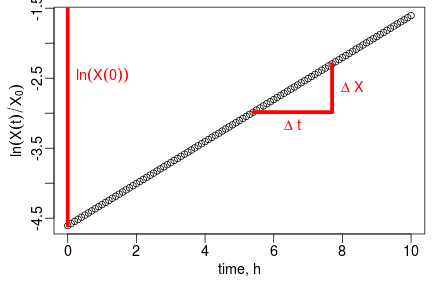
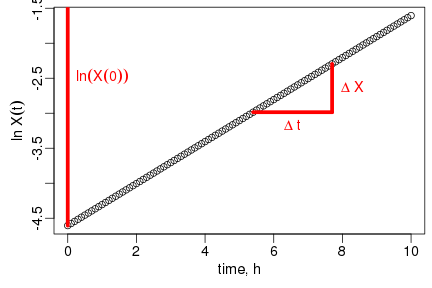
publishing deck

diff --git a/index.html b/index.html
@@ -410,7 +410,7 @@ X(t) =& X(0)   e^{\mu  t}\\
 </div>
 <div style='float:right;width:60%;'>
   <pre><code class="r">par(mai=c(.75,.75,.1,.1),mgp=c(1.5,.5,0),cex=1.2)
-plot(time, log(xt), xlab=&quot;time, h&quot;,ylab=expression(ln(X(t)/X[0])))
+plot(time, log(xt), xlab=&quot;time, h&quot;,ylab=expression(ln~X(t)))
 x1 &lt;- .05; idx1 &lt;- which(abs(xt-x1)==min(abs(xt-x1)))
 x2 &lt;- .1; idx2 &lt;- which(abs(xt-x2)==min(abs(xt-x2)))
 lines(x=time[c(idx1,idx2)], y=log(xt[c(idx1,idx1)]),col=2,lwd=5)
@@ -705,7 +705,7 @@ lines(TIME, x0.1 * exp(TIME*mu.1),col=&quot;red&quot;,lwd=2)
 
 <slide class="" id="slide-25" style="background:;">
   <hgroup>
-    <h3>Prepare Data, get Replicate Groups</h3>
+    <h3>Prepare Data: blanks, cuts, etc.</h3>
   </hgroup>
   <article data-timings="">
     <pre><code class="r">raw2 &lt;- correctBlanks(raw, plate,dids=&quot;OD&quot;,max.mid=1500) 
@@ -719,7 +719,7 @@ lines(TIME, x0.1 * exp(TIME*mu.1),col=&quot;red&quot;,lwd=2)
 </code></pre>
 
 <pre><code class="r">raw3 &lt;- correctBlanks(raw2,plate,dids=&quot;mVenus&quot;,by=c(&quot;strain&quot;,&quot;IPTG&quot;),
-                      mbins=length(raw$Time)/5) #,verb=FALSE)
+                      mbins=length(raw$Time)/5,verb=FALSE)
 </code></pre>
 
 <pre><code>## blanking mVenus 
@@ -4493,7 +4493,7 @@ a given range directly.<br/>Or try yourself with base R.</p>
 
 <slide class="" id="slide-38" style="background:;">
   <hgroup>
-    <h3>Gene Expression: Normalized Fluorescence - Summary</h3>
+    <h3>Gene Expression - Summary</h3>
   </hgroup>
   <article data-timings="">
     <ol>
@@ -4676,7 +4676,7 @@ required for a quantitative model?</p>
     </li>
     <li>
       <a href="#" target="_self" rel='tooltip' 
-        data-slide=25 title='Prepare Data, get Replicate Groups'>
+        data-slide=25 title='Prepare Data: blanks, cuts, etc.'>
          25
       </a>
     </li>
@@ -4754,7 +4754,7 @@ required for a quantitative model?</p>
     </li>
     <li>
       <a href="#" target="_self" rel='tooltip' 
-        data-slide=38 title='Gene Expression: Normalized Fluorescence - Summary'>
+        data-slide=38 title='Gene Expression - Summary'>
          38
       </a>
     </li>

diff --git a/index.md b/index.md
@@ -287,7 +287,7 @@ X(t) =& X(0)   e^{\mu  t}\\
 
 ```r
 par(mai=c(.75,.75,.1,.1),mgp=c(1.5,.5,0),cex=1.2)
-plot(time, log(xt), xlab="time, h",ylab=expression(ln(X(t)/X[0])))
+plot(time, log(xt), xlab="time, h",ylab=expression(ln~X(t)))
 x1 <- .05; idx1 <- which(abs(xt-x1)==min(abs(xt-x1)))
 x2 <- .1; idx2 <- which(abs(xt-x2)==min(abs(xt-x2)))
 lines(x=time[c(idx1,idx2)], y=log(xt[c(idx1,idx1)]),col=2,lwd=5)
@@ -543,7 +543,7 @@ as implemented in R package `grofit`
 <p class="OQ"> Try these equations with `nls`.<p/>
 
 ---
-### Prepare Data, get Replicate Groups
+### Prepare Data: blanks, cuts, etc.
 
 
 ```r
@@ -560,7 +560,7 @@ raw2 <- correctBlanks(raw, plate,dids="OD",max.mid=1500)
 
 ```r
 raw3 <- correctBlanks(raw2,plate,dids="mVenus",by=c("strain","IPTG"),
-                      mbins=length(raw$Time)/5) #,verb=FALSE)
+                      mbins=length(raw$Time)/5,verb=FALSE)
 ```
 
 ```
@@ -4898,7 +4898,7 @@ head(results)
 <p class=OQ>Calculate confidence intervals and error bars yourself.</p>
 
 ---
-### Gene Expression: Normalized Fluorescence - Summary
+### Gene Expression - Summary
 
 1. Fluorescence per OD as a measure of proteins per cell.
 2. Calculate directly using getData.
